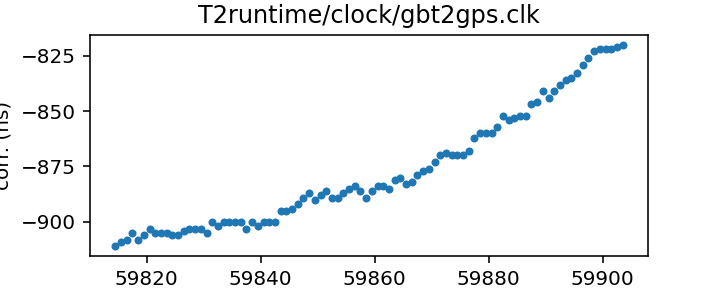
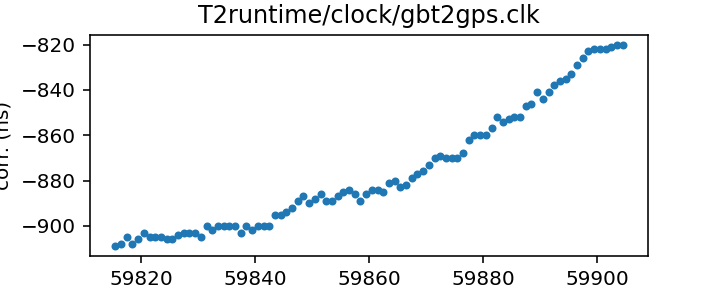
Routine gh-pages update from Github action Tue Nov 22 20:31:08 UTC 2022

diff --git a/status.md b/status.md
@@ -13,17 +13,17 @@ name of each clock file links to a page with more details.
 
 | Name | File | Corrections start | Corrections end | Last check date | Last check result 
 |:--- |:--- | --- | --- | --- |:--- 
-| [GPS to UTC](T2runtime/clock/gps2utc.clk.html) | `T2runtime/clock/gps2utc.clk` | 1993-01-01 MJD 48988.0 | 2022-10-27 MJD 59879.0 | 2022-11-21 | Unchanged 
-| [GPS to UTC (Combined Clock)](T2runtime/clock/gps2utc_cc.clk.html) | `T2runtime/clock/gps2utc_cc.clk` | 1993-01-01 MJD 48988.0 | 2022-10-27 MJD 59879.0 | 2022-11-21 | Unchanged 
-| [GPS to UTC (Corrected)](T2runtime/clock/gps2utc_c0p.clk.html) | `T2runtime/clock/gps2utc_c0p.clk` | 2010-12-29 MJD 55559.0 | 2022-10-27 MJD 59879.0 | 2022-11-21 | Unchanged 
-| [GBT](tempo/clock/time_gbt.dat.html) | `tempo/clock/time_gbt.dat` | 2000-12-31 MJD 51909.5 | 2022-11-20 MJD 59903.5 | 2022-11-21 | Updated 
-| [GBT (TEMPO2 converted from TEMPO)](T2runtime/clock/gbt2gps.clk.html) | `T2runtime/clock/gbt2gps.clk` | 2000-12-31 MJD 51909.5 | 2022-11-20 MJD 59903.5 | 2022-11-21 | Updated 
+| [GPS to UTC](T2runtime/clock/gps2utc.clk.html) | `T2runtime/clock/gps2utc.clk` | 1993-01-01 MJD 48988.0 | 2022-10-27 MJD 59879.0 | 2022-11-22 | Unchanged 
+| [GPS to UTC (Combined Clock)](T2runtime/clock/gps2utc_cc.clk.html) | `T2runtime/clock/gps2utc_cc.clk` | 1993-01-01 MJD 48988.0 | 2022-10-27 MJD 59879.0 | 2022-11-22 | Unchanged 
+| [GPS to UTC (Corrected)](T2runtime/clock/gps2utc_c0p.clk.html) | `T2runtime/clock/gps2utc_c0p.clk` | 2010-12-29 MJD 55559.0 | 2022-10-27 MJD 59879.0 | 2022-11-22 | Unchanged 
+| [GBT](tempo/clock/time_gbt.dat.html) | `tempo/clock/time_gbt.dat` | 2000-12-31 MJD 51909.5 | 2022-11-21 MJD 59904.5 | 2022-11-22 | Updated 
+| [GBT (TEMPO2 converted from TEMPO)](T2runtime/clock/gbt2gps.clk.html) | `T2runtime/clock/gbt2gps.clk` | 2000-12-31 MJD 51909.5 | 2022-11-21 MJD 59904.5 | 2022-11-22 | Updated 
 | [Jodrell Bank](T2runtime/clock/jb2gps.clk.html) | `T2runtime/clock/jb2gps.clk` | 2006-10-13 MJD 54021.4 | 2021-11-03 MJD 59521.0 | 2022-11-16 | Unchanged 
 | [Jodrell Bank Roach](T2runtime/clock/jbroach2jb.clk.html) | `T2runtime/clock/jbroach2jb.clk` | 2006-10-13 MJD 54021.4 | 2018-03-20 MJD 58197.6 | 2022-11-16 | Unchanged 
 | [Jodrell Bank DFB](T2runtime/clock/jbdfb2jb.clk.html) | `T2runtime/clock/jbdfb2jb.clk` | 2006-10-13 MJD 54021.4 | 2017-05-11 MJD 57884.0 | 2022-11-16 | Unchanged 
 | [Meerkat (observatory)](T2runtime/clock/mk2utc_observatory.clk.html) | `T2runtime/clock/mk2utc_observatory.clk` | 2019-01-01 MJD 58484.0 | 2022-11-07 MJD 59891.0 | 2022-11-21 | Updated 
-| [Leap seconds](tempo/clock/leap.sec.html) | `tempo/clock/leap.sec` | 1972-07-01 MJD 41499.0 | 2017-01-01 MJD 57754.0 | 2022-11-21 | Unchanged 
-| [UT1 table](tempo/clock/ut1.dat.html) | `tempo/clock/ut1.dat` | 1973-01-02 MJD 41684.0 | 2023-11-25 MJD 60273.0 | 2022-11-21 | Unchanged 
+| [Leap seconds](tempo/clock/leap.sec.html) | `tempo/clock/leap.sec` | 1972-07-01 MJD 41499.0 | 2017-01-01 MJD 57754.0 | 2022-11-22 | Unchanged 
+| [UT1 table](tempo/clock/ut1.dat.html) | `tempo/clock/ut1.dat` | 1973-01-02 MJD 41684.0 | 2023-11-25 MJD 60273.0 | 2022-11-22 | Unchanged 
 
 
 

diff --git a/T2runtime/clock/gbt2gps.clk.md b/T2runtime/clock/gbt2gps.clk.md
@@ -23,14 +23,13 @@ If questions arise about the conversion, contact Anne Archibald
 | Format | tempo2 |
 | Bogus last correction | False |
 | Clock file start | 2000-12-31 MJD 51909.5 |
-| Clock file end | 2022-11-20 MJD 59903.5 |
+| Clock file end | 2022-11-21 MJD 59904.5 |
 | Update interval (days) | 1 |
-| Last update attempt | 2022-11-21 |
+| Last update attempt | 2022-11-22 |
 | Last update result | Updated |
 
 Log entries from the last few update attempts:
 ```
-2022-11-12 20:33:44.670 - Updated
 2022-11-13 20:33:40.847 - Updated
 2022-11-14 20:34:24.128 - Updated
 2022-11-15 20:33:02.042 - Updated
@@ -40,12 +39,13 @@ Log entries from the last few update attempts:
 2022-11-19 20:32:05.426 - Updated
 2022-11-20 20:31:46.354 - Updated
 2022-11-21 20:30:54.402 - Updated
+2022-11-22 20:30:46.980 - Updated
 ```
 [Full log](https://raw.githubusercontent.com/ipta/pulsar-clock-corrections/main/log/T2runtime/clock/gbt2gps.clk.log)
 
 Leading comments from clock file:
 
-    # This file was automatically converted from tempo/clock/time_gbt.dat on 2022-11-21 20:30:54.327
+    # This file was automatically converted from tempo/clock/time_gbt.dat on 2022-11-22 20:30:46.911
 
 
 

diff --git a/tempo/clock/time_gbt.dat.md b/tempo/clock/time_gbt.dat.md
@@ -18,14 +18,13 @@ If questions arise, contact Ryan S. Lynch <rlynch@nrao.edu>.
 | Format | tempo |
 | Bogus last correction | False |
 | Clock file start | 2000-12-31 MJD 51909.5 |
-| Clock file end | 2022-11-20 MJD 59903.5 |
+| Clock file end | 2022-11-21 MJD 59904.5 |
 | Update interval (days) | 1 |
-| Last update attempt | 2022-11-21 |
+| Last update attempt | 2022-11-22 |
 | Last update result | Updated |
 
 Log entries from the last few update attempts:
 ```
-2022-11-12 20:33:44.587 - Updated
 2022-11-13 20:33:40.754 - Updated
 2022-11-14 20:34:23.861 - Updated
 2022-11-15 20:33:01.972 - Updated
@@ -35,6 +34,7 @@ Log entries from the last few update attempts:
 2022-11-19 20:32:05.327 - Updated
 2022-11-20 20:31:46.286 - Updated
 2022-11-21 20:30:53.967 - Updated
+2022-11-22 20:30:46.909 - Updated
 ```
 [Full log](https://raw.githubusercontent.com/ipta/pulsar-clock-corrections/main/log/tempo/clock/time_gbt.dat.log)
 

diff --git a/T2runtime/clock/gps2utc_c0p.clk.md b/T2runtime/clock/gps2utc_c0p.clk.md
@@ -30,12 +30,11 @@ about the BIPM's published corrections, contact <tai@bipm.org>.
 | Clock file start | 2010-12-29 MJD 55559.0 |
 | Clock file end | 2022-10-27 MJD 59879.0 |
 | Update interval (days) | 1 |
-| Last update attempt | 2022-11-21 |
+| Last update attempt | 2022-11-22 |
 | Last update result | Unchanged |
 
 Log entries from the last few update attempts:
 ```
-2022-11-12 20:33:43.614 - Unchanged
 2022-11-13 20:33:39.759 - Unchanged
 2022-11-14 20:34:23.476 - Unchanged
 2022-11-15 20:33:01.582 - Unchanged
@@ -45,6 +44,7 @@ Log entries from the last few update attempts:
 2022-11-19 20:32:04.560 - Unchanged
 2022-11-20 20:31:45.862 - Unchanged
 2022-11-21 20:30:53.600 - Unchanged
+2022-11-22 20:30:46.562 - Unchanged
 ```
 [Full log](https://raw.githubusercontent.com/ipta/pulsar-clock-corrections/main/log/T2runtime/clock/gps2utc_c0p.clk.log)
 

diff --git a/T2runtime/clock/gps2utc_cc.clk.md b/T2runtime/clock/gps2utc_cc.clk.md
@@ -29,12 +29,11 @@ about the BIPM's published corrections, contact <tai@bipm.org>.
 | Clock file start | 1993-01-01 MJD 48988.0 |
 | Clock file end | 2022-10-27 MJD 59879.0 |
 | Update interval (days) | 1 |
-| Last update attempt | 2022-11-21 |
+| Last update attempt | 2022-11-22 |
 | Last update result | Unchanged |
 
 Log entries from the last few update attempts:
 ```
-2022-11-12 20:33:43.601 - Unchanged
 2022-11-13 20:33:39.745 - Unchanged
 2022-11-14 20:34:23.464 - Unchanged
 2022-11-15 20:33:01.571 - Unchanged
@@ -44,6 +43,7 @@ Log entries from the last few update attempts:
 2022-11-19 20:32:04.536 - Unchanged
 2022-11-20 20:31:45.851 - Unchanged
 2022-11-21 20:30:53.583 - Unchanged
+2022-11-22 20:30:46.551 - Unchanged
 ```
 [Full log](https://raw.githubusercontent.com/ipta/pulsar-clock-corrections/main/log/T2runtime/clock/gps2utc_cc.clk.log)
 

diff --git a/T2runtime/clock/gps2utc.clk.md b/T2runtime/clock/gps2utc.clk.md
@@ -32,12 +32,11 @@ about the BIPM's published corrections, contact <tai@bipm.org>.
 | Clock file start | 1993-01-01 MJD 48988.0 |
 | Clock file end | 2022-10-27 MJD 59879.0 |
 | Update interval (days) | 1 |
-| Last update attempt | 2022-11-21 |
+| Last update attempt | 2022-11-22 |
 | Last update result | Unchanged |
 
 Log entries from the last few update attempts:
 ```
-2022-11-12 20:33:43.561 - Unchanged
 2022-11-13 20:33:39.703 - Unchanged
 2022-11-14 20:34:23.429 - Unchanged
 2022-11-15 20:33:01.537 - Unchanged
@@ -47,6 +46,7 @@ Log entries from the last few update attempts:
 2022-11-19 20:32:04.471 - Unchanged
 2022-11-20 20:31:45.773 - Unchanged
 2022-11-21 20:30:53.543 - Unchanged
+2022-11-22 20:30:46.517 - Unchanged
 ```
 [Full log](https://raw.githubusercontent.com/ipta/pulsar-clock-corrections/main/log/T2runtime/clock/gps2utc.clk.log)
 

diff --git a/tempo/clock/leap.sec.md b/tempo/clock/leap.sec.md
@@ -21,12 +21,11 @@ If there are any questions, contact Anne Archibald
 | File start | 1972-07-01 MJD 41499.0 |
 | File end | 2017-01-01 MJD 57754.0 |
 | Update interval (days) | 0 |
-| Last update attempt | 2022-11-21 |
+| Last update attempt | 2022-11-22 |
 | Last update result | Unchanged |
 
 Log entries from the last few update attempts:
 ```
-2022-11-12 20:33:44.723 - Unchanged
 2022-11-13 20:33:40.901 - Unchanged
 2022-11-14 20:34:27.564 - Unchanged
 2022-11-15 20:33:02.079 - Unchanged
@@ -36,5 +35,6 @@ Log entries from the last few update attempts:
 2022-11-19 20:32:05.507 - Unchanged
 2022-11-20 20:31:46.387 - Unchanged
 2022-11-21 20:30:58.132 - Unchanged
+2022-11-22 20:30:47.014 - Unchanged
 ```
 [Full log](https://raw.githubusercontent.com/ipta/pulsar-clock-corrections/main/log/tempo/clock/leap.sec.log)

diff --git a/tempo/clock/ut1.dat.md b/tempo/clock/ut1.dat.md
@@ -30,12 +30,11 @@ If there are any questions, contact Anne Archibald
 | File start | 1973-01-02 MJD 41684.0 |
 | File end | 2023-11-25 MJD 60273.0 |
 | Update interval (days) | 0 |
-| Last update attempt | 2022-11-21 |
+| Last update attempt | 2022-11-22 |
 | Last update result | Unchanged |
 
 Log entries from the last few update attempts:
 ```
-2022-11-12 20:33:58.975 - Unchanged
 2022-11-13 20:33:54.035 - Unchanged
 2022-11-14 20:34:35.680 - Unchanged
 2022-11-15 20:33:10.234 - Unchanged
@@ -45,5 +44,6 @@ Log entries from the last few update attempts:
 2022-11-19 20:32:16.633 - Unchanged
 2022-11-20 20:31:54.449 - Unchanged
 2022-11-21 20:31:06.450 - Unchanged
+2022-11-22 20:30:55.163 - Unchanged
 ```
 [Full log](https://raw.githubusercontent.com/ipta/pulsar-clock-corrections/main/log/tempo/clock/ut1.dat.log)
